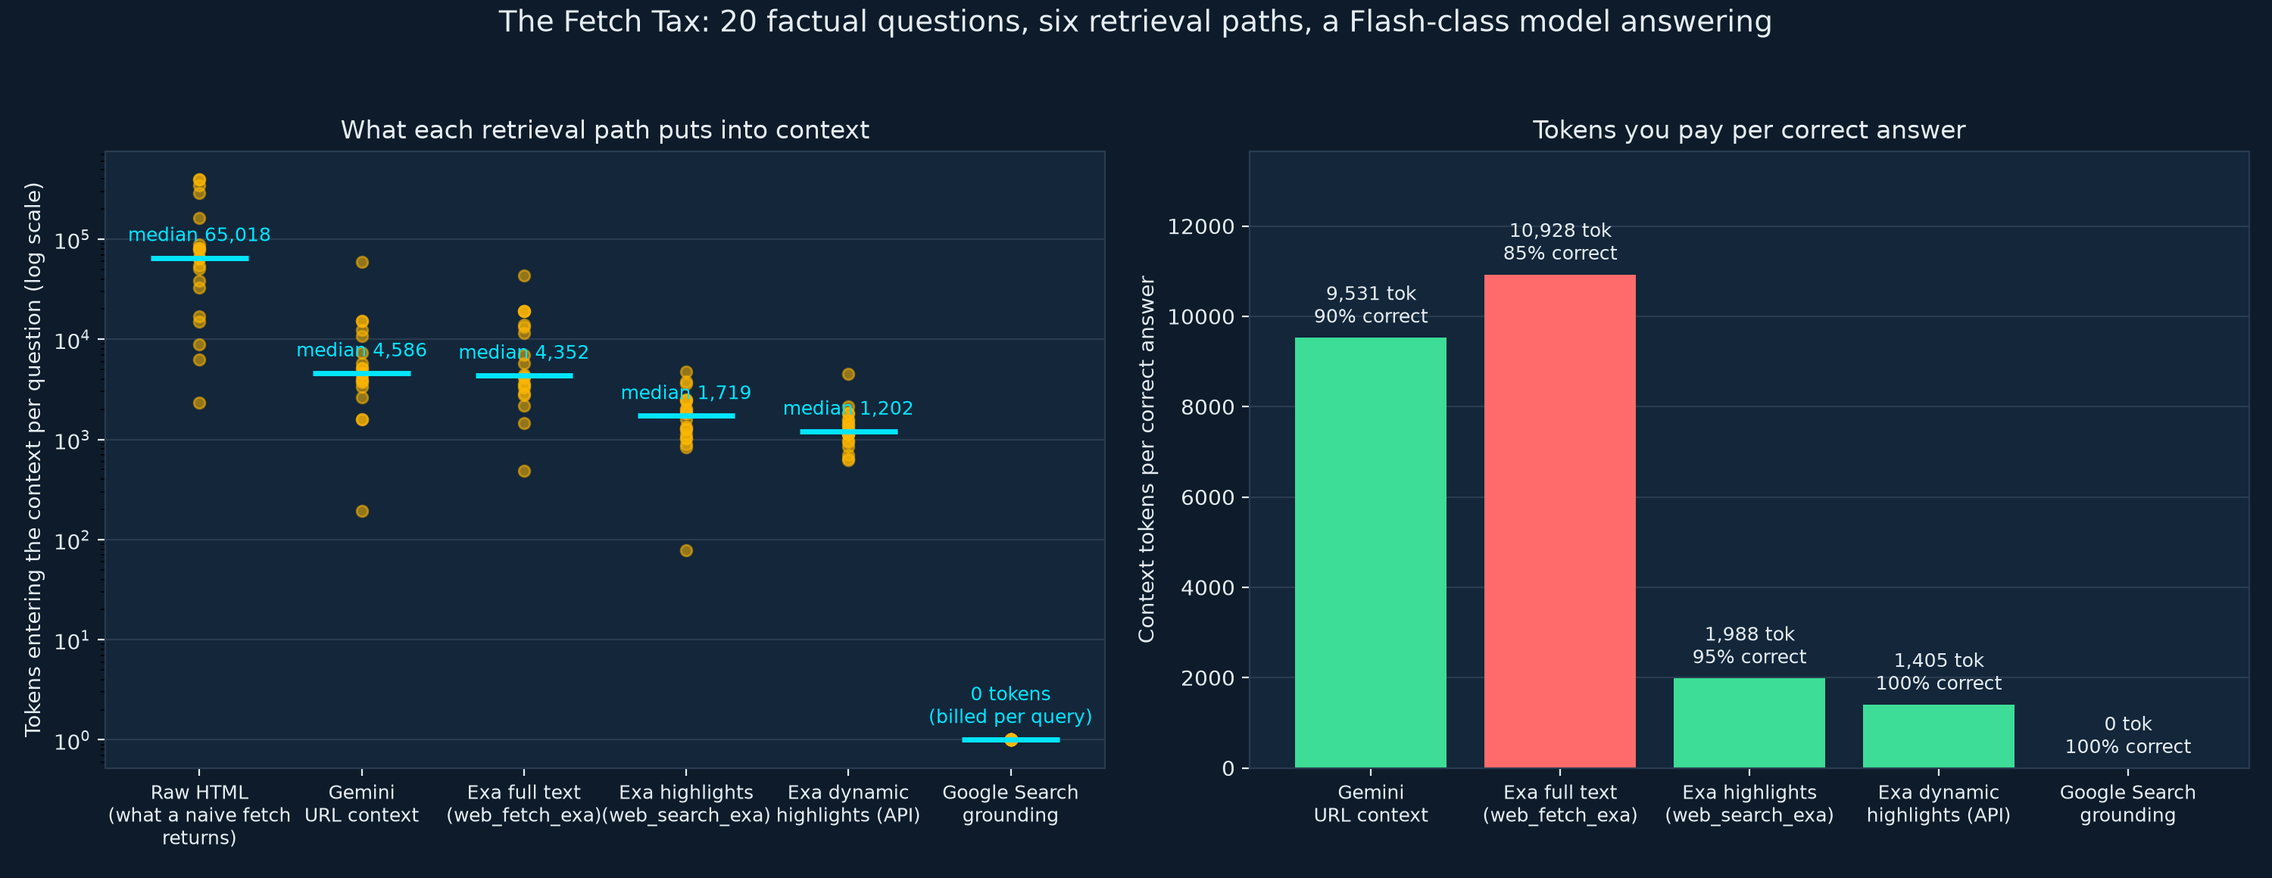
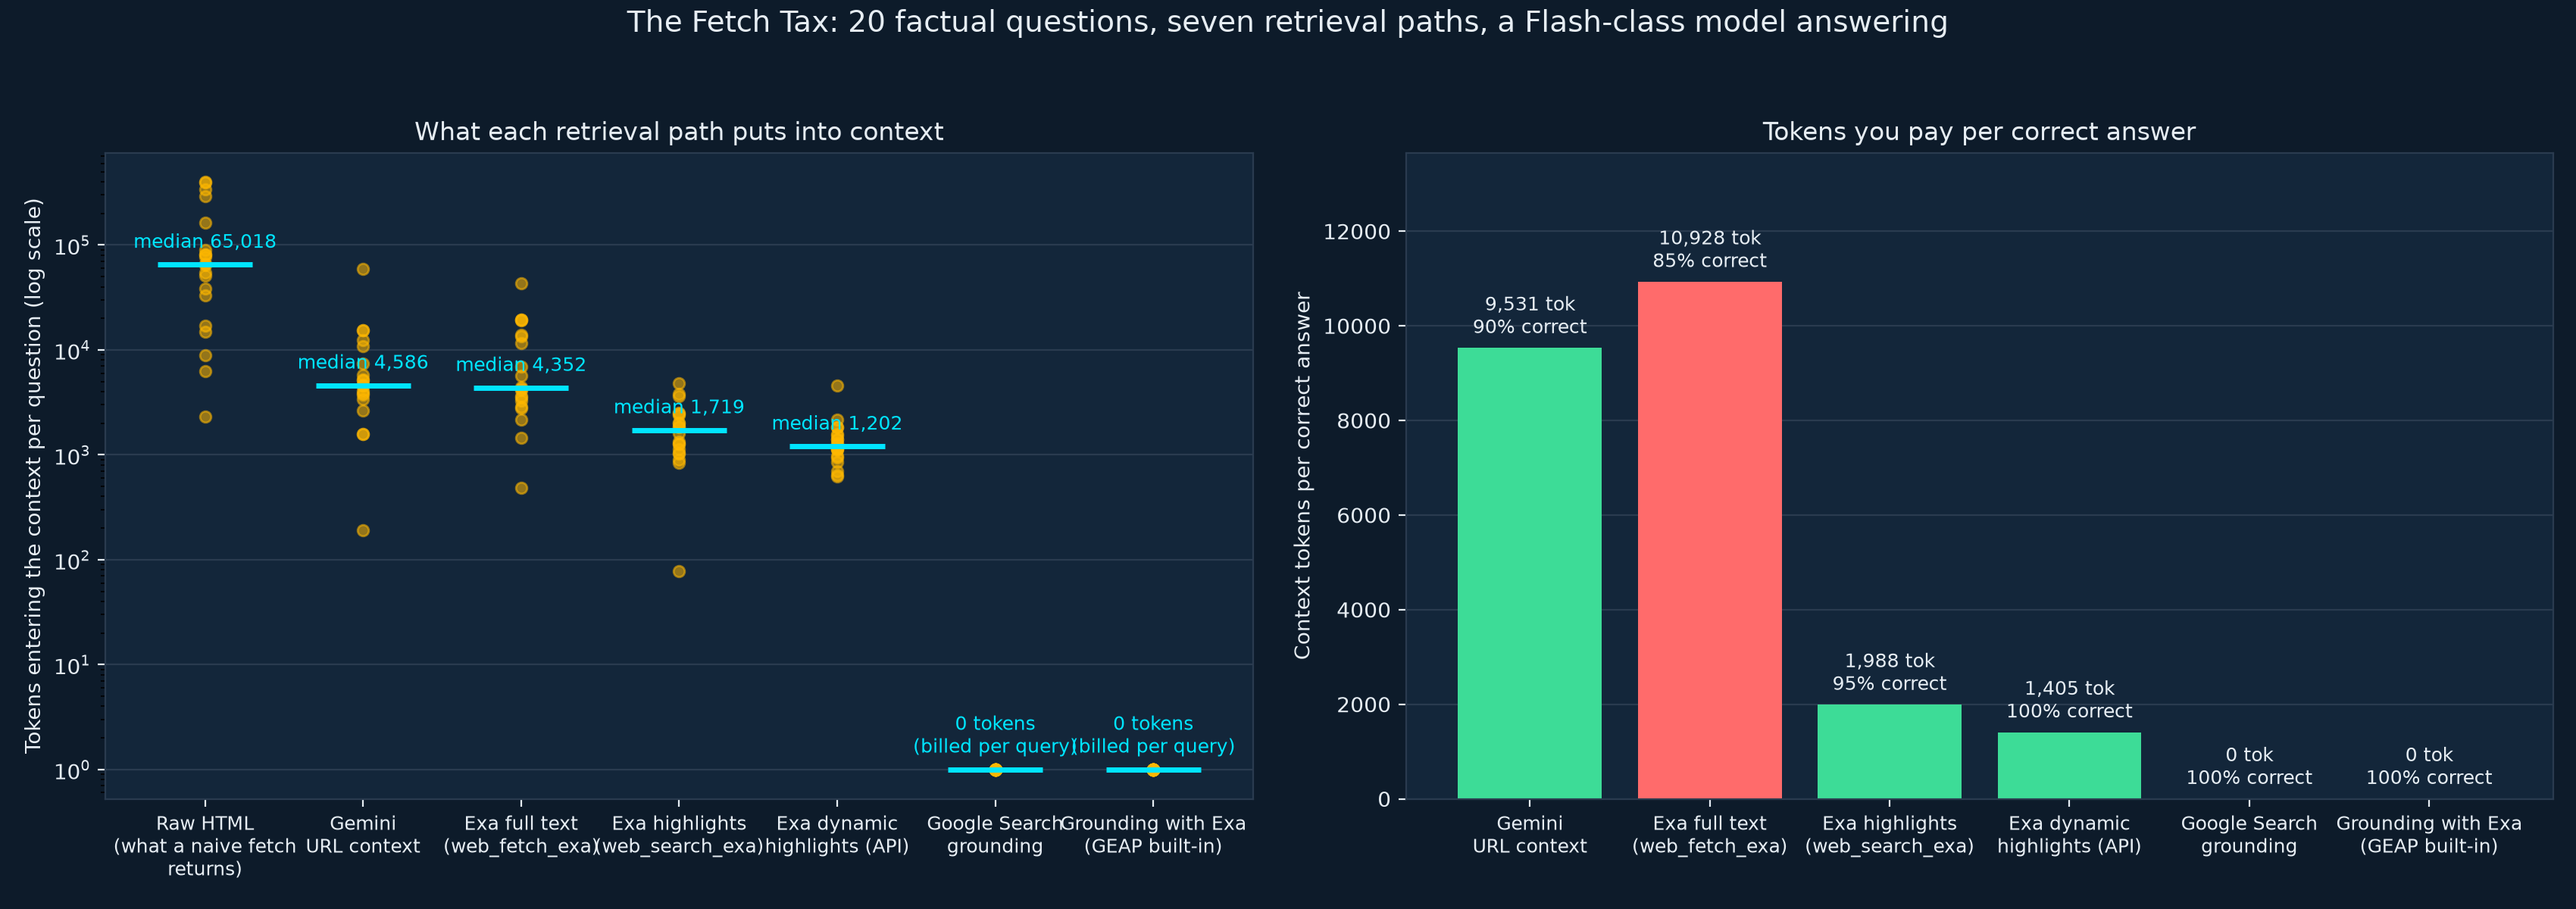
Add Grounding with Exa (GEAP built-in tool) as seventh path; update chart and README

diff --git a/fetch_tax.py b/fetch_tax.py
@@ -62,6 +62,7 @@ PATHS = (
     "exa_highlights",
     "exa_dynamic",
     "google_search",
+    "gemini_exa_grounding",
 )
 
 ANSWER_INSTRUCTION = (
@@ -350,6 +351,45 @@ async def path_exa_dynamic(client: genai.Client, q: dict) -> Record:
     return await answer_from_context(client, q, text, rec)
 
 
+async def path_gemini_exa_grounding(client: genai.Client, q: dict) -> Record:
+    """Gemini's built-in 'Grounding with Exa web search' tool on the Gemini
+    Enterprise Agent Platform: Gemini manages the retrieval, Exa supplies it.
+    Needs EXA_API_KEY (bring-your-own key, per Google's docs)."""
+    rec = Record(q["id"], "gemini_exa_grounding", ANSWER_MODEL)
+    api_key = os.environ.get("EXA_API_KEY")
+    if not api_key:
+        rec.error = "EXA_API_KEY not set"
+        return rec
+    prompt = f"{q['question']}\n{ANSWER_INSTRUCTION}"
+    config = types.GenerateContentConfig(
+        tools=[types.Tool(exa_ai_search=types.ToolExaAiSearch(api_key=api_key))],
+        temperature=0,
+    )
+    start = time.perf_counter()
+    response = await generate_with_retry(client, ANSWER_MODEL, prompt, config)
+    rec.latency_s = time.perf_counter() - start
+    usage = usage_fields(response)
+    rec.context_tokens = usage["tool_use"]
+    rec.prompt_tokens = usage["prompt"] + usage["tool_use"]
+    rec.output_tokens = usage["output"] + usage["thought"]
+    rec.thought_tokens = usage["thought"]
+    rec.answer = (response.text or "").strip()
+    rec.correct = grade(rec.answer, q["answer_regex"])
+    candidate = response.candidates[0] if response.candidates else None
+    meta = getattr(candidate, "grounding_metadata", None)
+    if meta is not None:
+        rec.search_queries = len(meta.web_search_queries or [])
+        rec.sources = [
+            c.web.uri for c in (meta.grounding_chunks or []) if c.web and c.web.uri
+        ]
+        rec.pages = len(rec.sources)
+    # Exa bills its own search price per query on your key (fast = $7/1k).
+    rec.cost_usd = token_cost(rec.prompt_tokens, rec.output_tokens) + (
+        max(rec.search_queries, 1) * PRICE_EXA_SEARCH
+    )
+    return rec
+
+
 # ----------------------------------------------------------------------------- run
 
 
@@ -373,6 +413,8 @@ async def run_question(
                 rec = await path_exa_dynamic(client, q)
             elif path == "google_search":
                 rec = await path_google_search(client, q)
+            elif path == "gemini_exa_grounding":
+                rec = await path_gemini_exa_grounding(client, q)
             else:
                 raise ValueError(path)
         except Exception as exc:  # noqa: BLE001 - record and keep going

diff --git a/analyze.py b/analyze.py
@@ -25,6 +25,7 @@ ORDER = [
     "exa_highlights",
     "exa_dynamic",
     "google_search",
+    "gemini_exa_grounding",
 ]
 LABELS = {
     "raw_html": "Raw HTML\n(what a naive fetch\nreturns)",
@@ -33,6 +34,7 @@ LABELS = {
     "exa_highlights": "Exa highlights\n(web_search_exa)",
     "exa_dynamic": "Exa dynamic\nhighlights (API)",
     "google_search": "Google Search\ngrounding",
+    "gemini_exa_grounding": "Grounding with Exa\n(GEAP built-in)",
 }
 BG, PANEL, TEXT, GRID = "#0D1B2A", "#13263A", "#E6EDF3", "#2A3B4F"
 AMBER, CORAL, CYAN, MINT = "#FFB800", "#FF6B6B", "#00E5FF", "#3DDC97"
@@ -66,7 +68,8 @@ def load(paths: list[Path], questions_file: Path) -> list[dict]:
                 )
                 # No retrieved material means any correct answer came from the
                 # model's memory, which is not the path's doing.
-                if row["path"] != "google_search" and row.get("pages", 0) == 0:
+                grounding = row["path"] in ("google_search", "gemini_exa_grounding")
+                if not grounding and row.get("pages", 0) == 0:
                     row["correct"] = False
                     row["retrieval_failed"] = True
             merged[(row["question_id"], row["path"])] = row
@@ -161,7 +164,7 @@ def per_question_table(rows: list[dict]) -> str:
 
 def draw_chart(summary: list[dict], rows: list[dict], path: Path) -> None:
     paths = [s["path"] for s in summary]
-    fig, (ax1, ax2) = plt.subplots(1, 2, figsize=(15, 5.8), facecolor=BG)
+    fig, (ax1, ax2) = plt.subplots(1, 2, figsize=(17, 6), facecolor=BG)
     for ax in (ax1, ax2):
         ax.set_facecolor(PANEL)
         ax.tick_params(colors=TEXT)
@@ -181,11 +184,8 @@ def draw_chart(summary: list[dict], rows: list[dict], path: Path) -> None:
         ax1.scatter([i] * len(vals), vals, color=AMBER, alpha=0.55, s=28, zorder=3)
         med = statistics.median(vals)
         ax1.hlines(med, i - 0.3, i + 0.3, color=CYAN, linewidth=2.5, zorder=4)
-        label = (
-            "0 tokens\n(billed per query)"
-            if p == "google_search"
-            else f"median {med:,.0f}"
-        )
+        grounded = p in ("google_search", "gemini_exa_grounding")
+        label = "0 tokens\n(billed per query)" if grounded else f"median {med:,.0f}"
         ax1.annotate(
             label,
             (i, med),

diff --git a/README.md b/README.md
@@ -2,7 +2,7 @@
 
 Companion experiment to the blog post **The Fetch Tax: Your Agent Reads 65,000 Tokens to Use 1,400** (link coming once published).
 
-Twenty factual questions, each with a known answer and the public page it lives on. For every question, six retrieval paths fetch the evidence, a Flash-class model answers in one sentence, and a regex grades it. We record how many tokens each path pushed into the context window, what it cost at list price (or what the provider itself reported), how long it took, and whether the answer was right.
+Twenty factual questions, each with a known answer and the public page it lives on. For every question, seven retrieval paths fetch the evidence, a Flash-class model answers in one sentence, and a regex grades it. We record how many tokens each path pushed into the context window, what it cost at list price (or what the provider itself reported), how long it took, and whether the answer was right.
 
 ![Results chart](results/fetch_tax_chart.png)
 
@@ -16,6 +16,7 @@ Twenty factual questions, each with a known answer and the public page it lives 
 | Exa highlights (`web_search_exa`, keyless MCP) | 1,719 | 4,779 | 95% | 1,988 | $0.0099 |
 | Exa dynamic highlights (API) | 1,202 | 4,545 | 100% | 1,405 | $0.0087 |
 | Google Search grounding | 0 | 0 | 100% | 0 (≈2 billable queries per question) | $0.0292 |
+| Grounding with Exa (GEAP built-in `exa_ai_search`) | 0 | 0 | 100% | 0 (≈1 billable query per question) | $0.0095 |
 
 **Search-type sweep** (same questions, `highlights: true`, only `type` varies):
 
@@ -28,7 +29,9 @@ Twenty factual questions, each with a known answer and the public page it lives 
 | `deep` | 20/20 | 1,805 | 5.22 s | $0.012 |
 | `deep-reasoning` | 20/20 | 1,653 | 5.19 s | $0.015 |
 
-Read the post for the interpretation. The short version: Google Search grounding is the most accurate path and costs nothing in tokens (it bills per model-chosen query instead); Exa highlights cut the token cost of *reading* by about 7x against page-reading paths; and for single-fact lookups the `type` dial changes only latency and price.
+Read the post for the interpretation. The short version: both model-managed grounding tools on the Gemini Enterprise Agent Platform (Google Search and Exa) were 20/20 with zero tokens in context and bill per model-chosen query; Exa highlights cut the token cost of *reading* by about 7x against page-reading paths; and for single-fact lookups the `type` dial changes only latency and price.
+
+`gemini_exa_grounding` uses Google's documented built-in tool (`types.Tool(exa_ai_search=types.ToolExaAiSearch(api_key=...))`) with default settings. Its cost column counts Exa's search price on your key plus model tokens; any additional platform grounding charge in your agreement is not included.
 
 ## Things to know before trusting the numbers
 
@@ -42,7 +45,7 @@ Read the post for the interpretation. The short version: Google Search grounding
 ## Layout
 
 ```
-fetch_tax.py        the six paths, run + probe commands, list prices
+fetch_tax.py        the seven paths, run + probe commands, list prices
 type_sweep.py       the same questions through every Exa search type
 analyze.py          merge run files, re-grade, summary tables, chart
 questions.json      20 questions: canonical URL, regex, expected answer
@@ -59,7 +62,7 @@ export GOOGLE_CLOUD_PROJECT=your-project-id
 export EXA_API_KEY=...                     # environment only, never in a file
 
 uv run python fetch_tax.py probe           # one question, every path
-uv run python fetch_tax.py run             # 20 questions × 6 paths
+uv run python fetch_tax.py run             # 20 questions × 7 paths
 uv run python type_sweep.py                # 20 questions × 6 search types
 uv run python analyze.py results/runs_*.jsonl --chart results/fetch_tax_chart.png
 ```

diff --git a/results/summary.md b/results/summary.md
@@ -8,28 +8,29 @@
 | exa_highlights | 20 | 1,719 | 4,779 | 95% | 1,988 | 0.0099 | 4.0s |
 | exa_dynamic | 20 | 1,202 | 4,545 | 100% | 1,405 | 0.0087 | 5.0s |
 | google_search | 20 | 0 | 0 | 100% | 0 | 0.0292 | 5.2s |
+| gemini_exa_grounding | 20 | 0 | 0 | 100% | 0 | 0.0095 | 5.0s |
 
 ## Per question (context tokens, ✓ correct)
 
-| Question | raw_html | url_context | exa_full_text | exa_highlights | exa_dynamic | google_search |
-|---|---|---|---|---|---|---|
-| q01 | 80,644 | 15,381 ✓ | 19,289 ✓ | 3,627 ✓ | 4,545 ✓ | 0 ✓ |
-| q02 | 54,136 | 1,589 ✓ | 1,456 ✗ | 2,401 ✓ | 1,405 ✓ | 0 ✓ |
-| q03 | 398,366 | 4,609 ✓ | 4,137 ✓ | 1,837 ✓ | 1,409 ✓ | 0 ✓ |
-| q04 | 341,333 | 192 ✗ | 2,756 ✓ | 2,022 ✓ | 621 ✓ | 0 ✓ |
-| q05 | 50,822 | 4,042 ✓ | 3,493 ✓ | 841 ✓ | 699 ✓ | 0 ✓ |
-| q06 | 32,952 | 7,361 ✓ | 6,978 ✓ | 78 ✗ | 1,126 ✓ | 0 ✓ |
-| q07 | 77,088 | 59,581 ✗ | 19,105 ✗ | 1,030 ✓ | 948 ✓ | 0 ✓ |
-| q08 | 17,039 | 5,784 ✓ | 5,711 ✓ | 889 ✓ | 1,120 ✓ | 0 ✓ |
-| q09 | 163,212 | 5,113 ✓ | 486 ✓ | 2,501 ✓ | 1,523 ✓ | 0 ✓ |
-| q10 | 38,289 | 12,301 ✓ | 13,394 ✓ | 2,001 ✓ | 856 ✓ | 0 ✓ |
-| q11 | 66,233 | 4,563 ✓ | 4,424 ✓ | 1,867 ✓ | 1,163 ✓ | 0 ✓ |
-| q12 | 396,757 | 10,763 ✓ | 43,445 ✓ | 4,779 ✓ | 1,833 ✓ | 0 ✓ |
-| q13 | 8,865 | 4,532 ✓ | 4,280 ✓ | 1,601 ✓ | 1,580 ✓ | 0 ✓ |
-| q14 | 2,322 | 2,648 ✓ | 2,160 ✓ | 1,269 ✓ | 1,294 ✓ | 0 ✓ |
-| q15 | 6,242 | 3,715 ✓ | 3,620 ✓ | 1,329 ✓ | 1,241 ✓ | 0 ✓ |
-| q16 | 14,908 | 1,579 ✓ | 11,610 ✓ | 3,775 ✓ | 2,145 ✓ | 0 ✓ |
-| q17 | 89,107 | 3,863 ✓ | 3,300 ✓ | 1,275 ✓ | 641 ✓ | 0 ✓ |
-| q18 | 63,802 | 5,182 ✓ | 13,980 ✗ | 1,127 ✓ | 1,145 ✓ | 0 ✓ |
-| q19 | 80,637 | 15,384 ✓ | 19,289 ✓ | 2,489 ✓ | 1,840 ✓ | 0 ✓ |
-| q20 | 291,550 | 3,376 ✓ | 2,866 ✓ | 1,032 ✓ | 975 ✓ | 0 ✓ |
+| Question | raw_html | url_context | exa_full_text | exa_highlights | exa_dynamic | google_search | gemini_exa_grounding |
+|---|---|---|---|---|---|---|---|
+| q01 | 80,644 | 15,381 ✓ | 19,289 ✓ | 3,627 ✓ | 4,545 ✓ | 0 ✓ | 0 ✓ |
+| q02 | 54,136 | 1,589 ✓ | 1,456 ✗ | 2,401 ✓ | 1,405 ✓ | 0 ✓ | 0 ✓ |
+| q03 | 398,366 | 4,609 ✓ | 4,137 ✓ | 1,837 ✓ | 1,409 ✓ | 0 ✓ | 0 ✓ |
+| q04 | 341,333 | 192 ✗ | 2,756 ✓ | 2,022 ✓ | 621 ✓ | 0 ✓ | 0 ✓ |
+| q05 | 50,822 | 4,042 ✓ | 3,493 ✓ | 841 ✓ | 699 ✓ | 0 ✓ | 0 ✓ |
+| q06 | 32,952 | 7,361 ✓ | 6,978 ✓ | 78 ✗ | 1,126 ✓ | 0 ✓ | 0 ✓ |
+| q07 | 77,088 | 59,581 ✗ | 19,105 ✗ | 1,030 ✓ | 948 ✓ | 0 ✓ | 0 ✓ |
+| q08 | 17,039 | 5,784 ✓ | 5,711 ✓ | 889 ✓ | 1,120 ✓ | 0 ✓ | 0 ✓ |
+| q09 | 163,212 | 5,113 ✓ | 486 ✓ | 2,501 ✓ | 1,523 ✓ | 0 ✓ | 0 ✓ |
+| q10 | 38,289 | 12,301 ✓ | 13,394 ✓ | 2,001 ✓ | 856 ✓ | 0 ✓ | 0 ✓ |
+| q11 | 66,233 | 4,563 ✓ | 4,424 ✓ | 1,867 ✓ | 1,163 ✓ | 0 ✓ | 0 ✓ |
+| q12 | 396,757 | 10,763 ✓ | 43,445 ✓ | 4,779 ✓ | 1,833 ✓ | 0 ✓ | 0 ✓ |
+| q13 | 8,865 | 4,532 ✓ | 4,280 ✓ | 1,601 ✓ | 1,580 ✓ | 0 ✓ | 0 ✓ |
+| q14 | 2,322 | 2,648 ✓ | 2,160 ✓ | 1,269 ✓ | 1,294 ✓ | 0 ✓ | 0 ✓ |
+| q15 | 6,242 | 3,715 ✓ | 3,620 ✓ | 1,329 ✓ | 1,241 ✓ | 0 ✓ | 0 ✓ |
+| q16 | 14,908 | 1,579 ✓ | 11,610 ✓ | 3,775 ✓ | 2,145 ✓ | 0 ✓ | 0 ✓ |
+| q17 | 89,107 | 3,863 ✓ | 3,300 ✓ | 1,275 ✓ | 641 ✓ | 0 ✓ | 0 ✓ |
+| q18 | 63,802 | 5,182 ✓ | 13,980 ✗ | 1,127 ✓ | 1,145 ✓ | 0 ✓ | 0 ✓ |
+| q19 | 80,637 | 15,384 ✓ | 19,289 ✓ | 2,489 ✓ | 1,840 ✓ | 0 ✓ | 0 ✓ |
+| q20 | 291,550 | 3,376 ✓ | 2,866 ✓ | 1,032 ✓ | 975 ✓ | 0 ✓ | 0 ✓ |
